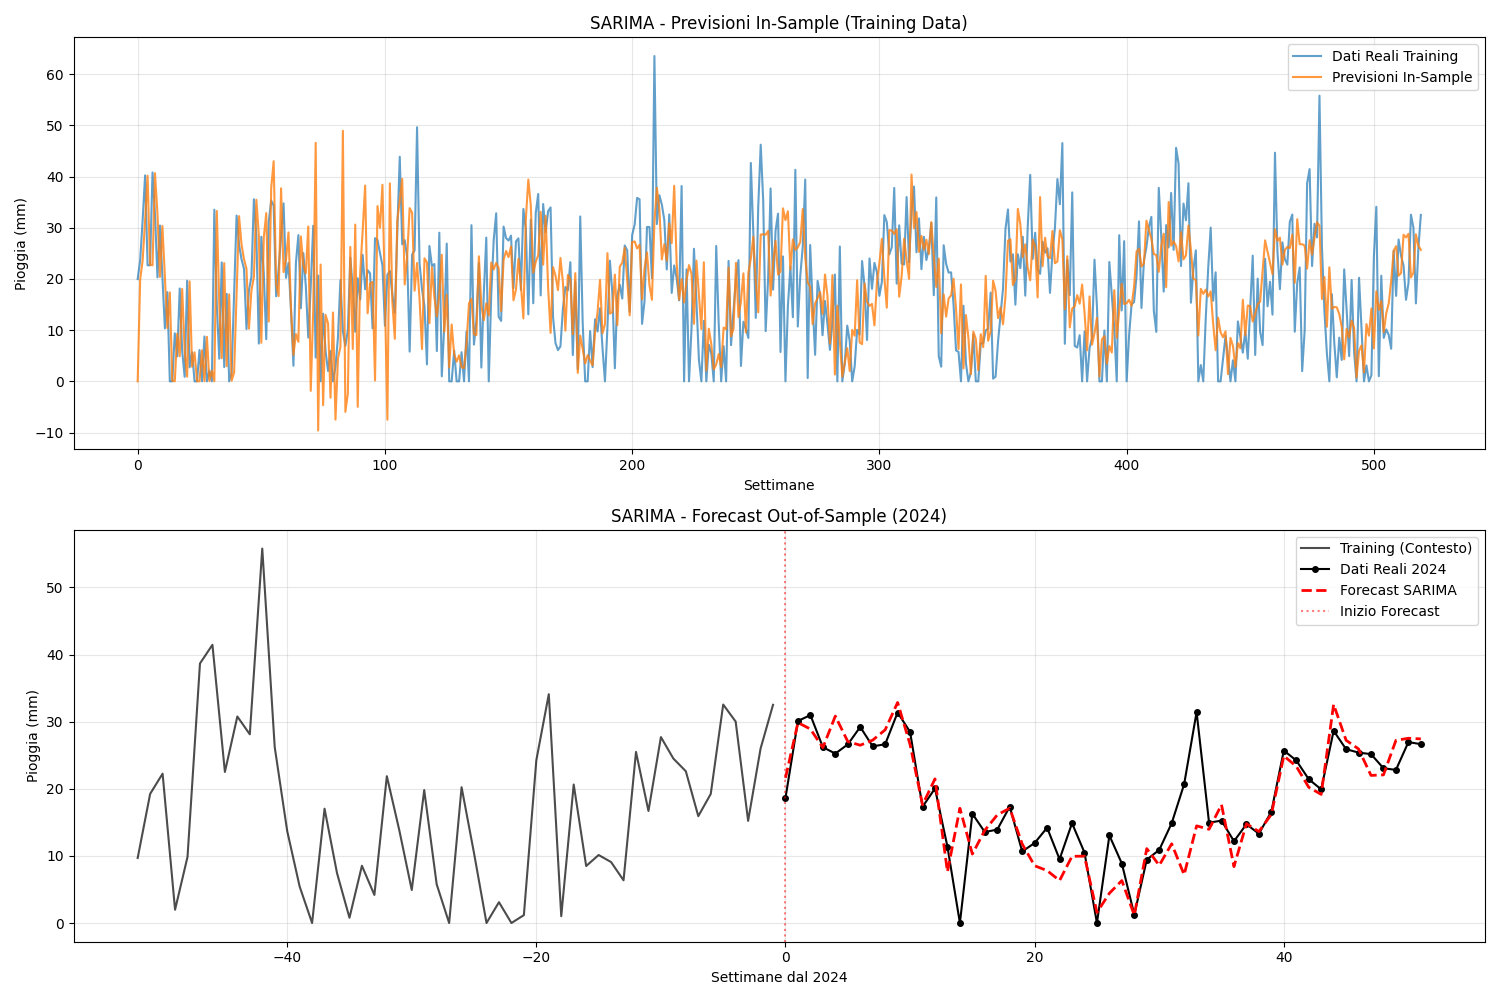
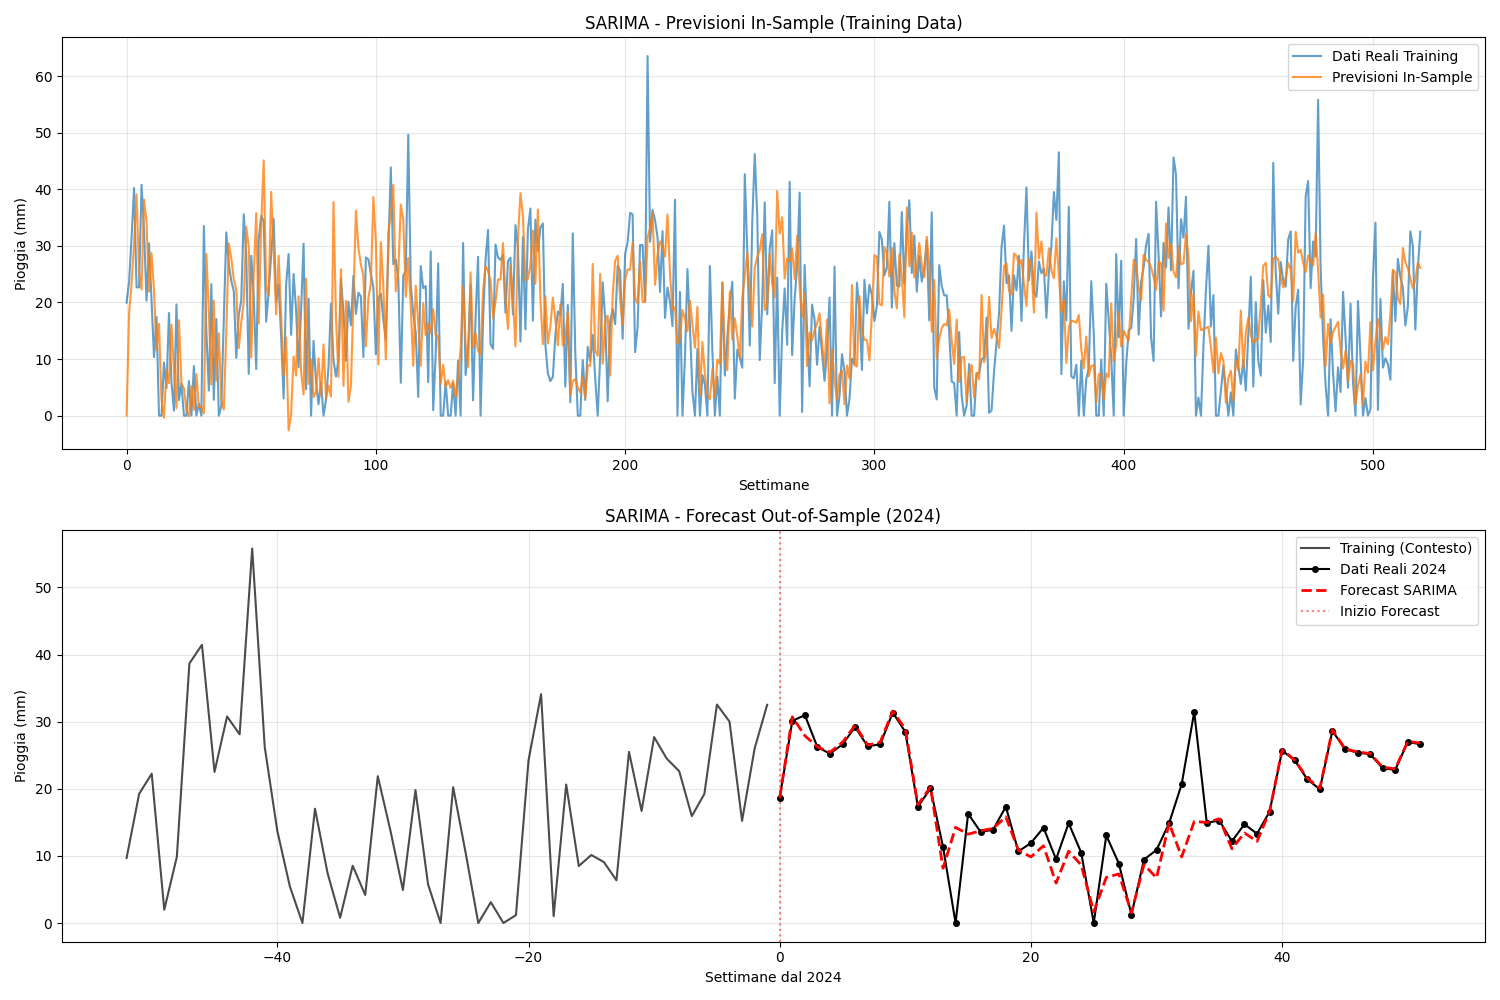
change sarima parameter

diff --git a/src/stats_model.py b/src/stats_model.py
@@ -20,12 +20,12 @@ def sarima_forecast(train_data, test_data):
     """
 
     print("Addestramento modello SARIMA...")
-    print("Parametri: order=(1,1,1), seasonal_order=(1,1,1,52)")
+    print("Parametri: order=(1,1,2), seasonal_order=(1,1,1,52)")
 
     # Definizione parametri del modello
     # order = (p, d, q) - parametri non stagionali
     # seasonal_order = (P, D, Q, s) - parametri stagionali
-    order = (1, 1, 1)
+    order = (1, 1, 2)
     seasonal_order = (1, 1, 1, 52)  # stagionalità settimanale (52 settimane)
 
     try:

diff --git a/docs/forecasting_statistico.md b/docs/forecasting_statistico.md
@@ -39,30 +39,16 @@ seasonal_order = (1, 1, 1, 52)  # Componenti stagionali
 
 ### 2.2 Giustificazione dei Parametri
 
-#### Componenti Non Stagionali (1,1,1):
+#### Componenti Non Stagionali (1,1,2):
 - **p=1**: Una dipendenza autoregressiva di primo ordine
 - **d=1**: Una differenziazione per rendere la serie stazionaria
-- **q=1**: Un termine moving average di primo ordine
+- **q=2**: Un termine moving average di secondo ordine
 
 #### Componenti Stagionali (1,1,1,52):
 - **P=1**: Dipendenza autoregressiva stagionale di primo ordine
 - **D=1**: Differenziazione stagionale
 - **Q=1**: Moving average stagionale di primo ordine
 - **s=52**: Ciclo stagionale di 52 settimane (annuale)
-
-### 2.3 Equazione del Modello
-
-Il modello SARIMA(1,1,1)(1,1,1,52) può essere scritto come:
-
-```
-(1 - φ₁B)(1 - Φ₁B⁵²)(1-B)(1-B⁵²)Xₜ = (1 + θ₁B)(1 + Θ₁B⁵²)εₜ
-```
-
-Dove:
-- **B**: Operatore di ritardo (Backshift)
-- **φ₁, Φ₁**: Coefficienti autoregressivi (non stagionale e stagionale)
-- **θ₁, Θ₁**: Coefficienti moving average (non stagionale e stagionale)
-- **εₜ**: Rumore bianco
 
 ## 3. Implementazione del Modello
 
@@ -91,13 +77,13 @@ fitted_model = model.fit(
 ### 4.1 Metriche di Fitting
 ```
 Modello addestrato con successo!
-AIC: 3105.50
-BIC: 3125.62
+AIC: 3089.85
+BIC: 3113.98
 ```
 
 #### Interpretazione:
-- **AIC (Akaike Information Criterion)**: 3105.50
-- **BIC (Bayesian Information Criterion)**: 3125.62
+- **AIC (Akaike Information Criterion)**
+- **BIC (Bayesian Information Criterion)**
 - Valori più bassi indicano modelli migliori (per confronti relativi)
 
 ### 4.2 Metriche di Accuratezza
@@ -105,21 +91,21 @@ BIC: 3125.62
 #### Risultati Ottenuti:
 ```
 --- RISULTATI ACCURATEZZA SARIMA ---
-MAPE (Mean Absolute Percentage Error): 0.1497 (14.97%)
-ME (Mean Error): -0.8058
-MAE (Mean Absolute Error): 2.8624
-MPE (Mean Percentage Error): -0.0800 (-8.00%)
-RMSE (Root Mean Square Error): 4.6908
-Correlazione: 0.8504
+MAPE (Mean Absolute Percentage Error): 0.0955 (9.55%)
+ME (Mean Error): -0.8993
+MAE (Mean Absolute Error): 1.7397
+MPE (Mean Percentage Error): -0.0756 (-7.56%)
+RMSE (Root Mean Square Error): 3.7483
+Correlazione: 0.9003
 ```
 
 #### Interpretazione delle Metriche:
 
 **Metriche Valide:**
-- **MAE = 2.86 mm**: Errore medio assoluto accettabile
-- **RMSE = 4.69 mm**: Errore quadratico medio buono
-- **ME = -0.8 mm**: Bias negativo piccolo (leggera sottostima)
-- **Correlazione = 0.8504**: Ottima correlazione tra predetto e osservato
+- **MAE = 1.73 mm**: Errore medio assoluto accettabile
+- **RMSE = 3.75 mm**: Errore quadratico medio buono
+- **ME = -0.9 mm**: Bias negativo piccolo (leggera sottostima)
+- **Correlazione = 0.9**: Ottima correlazione tra predetto e osservato
 
 ## 5. Visualizzazioni Generate
 
